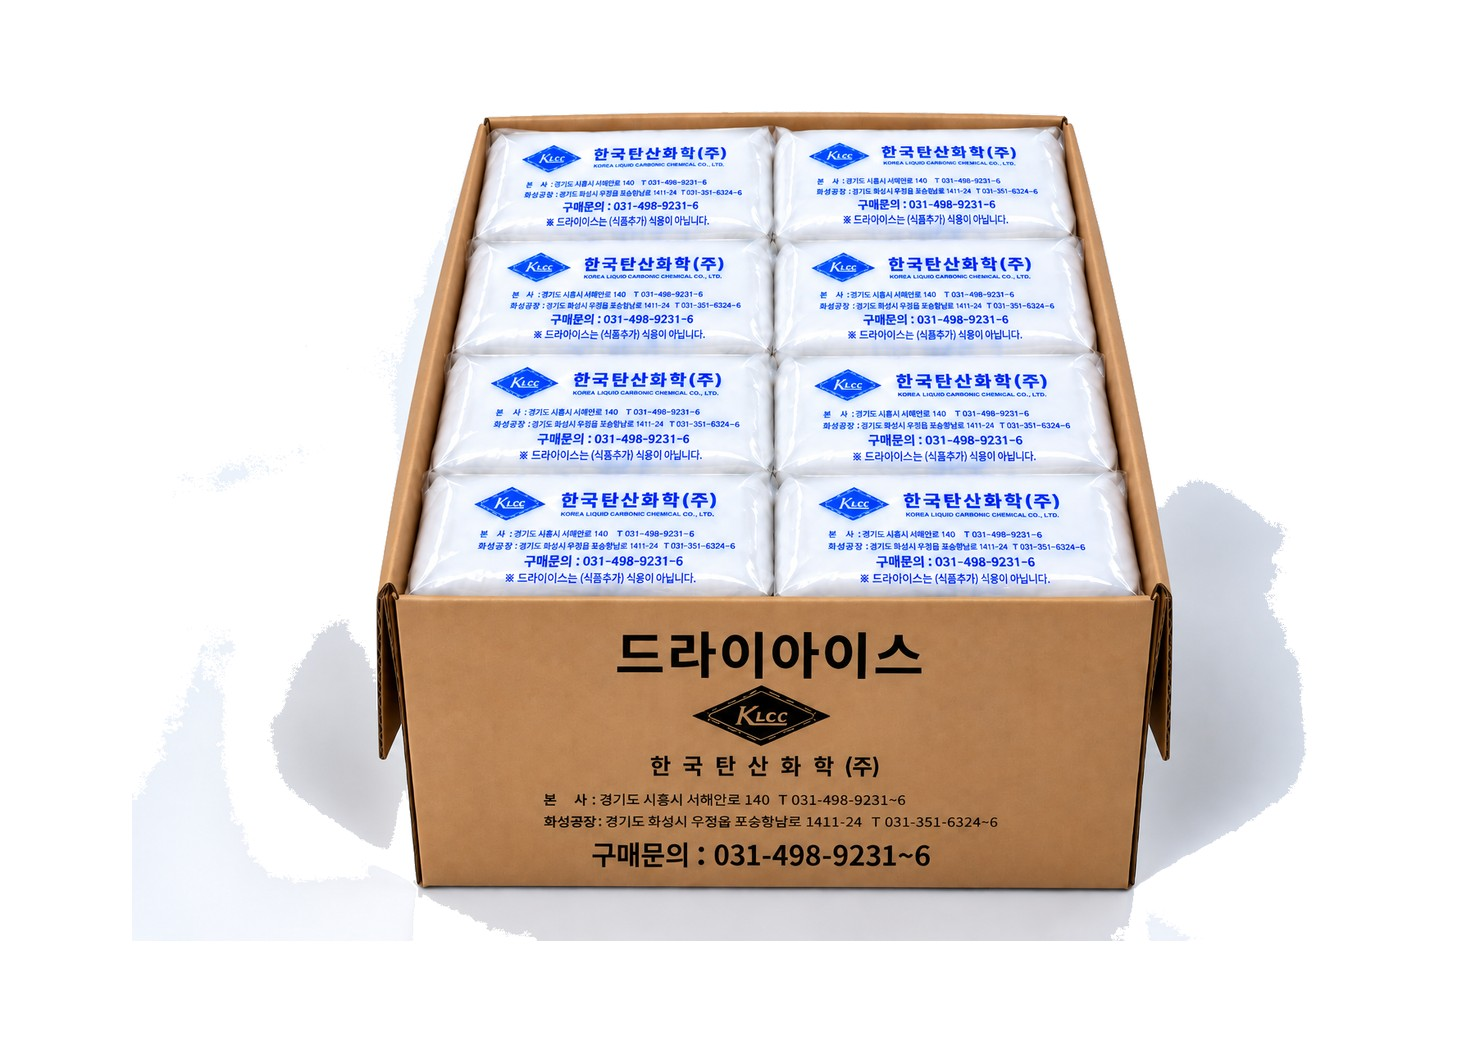
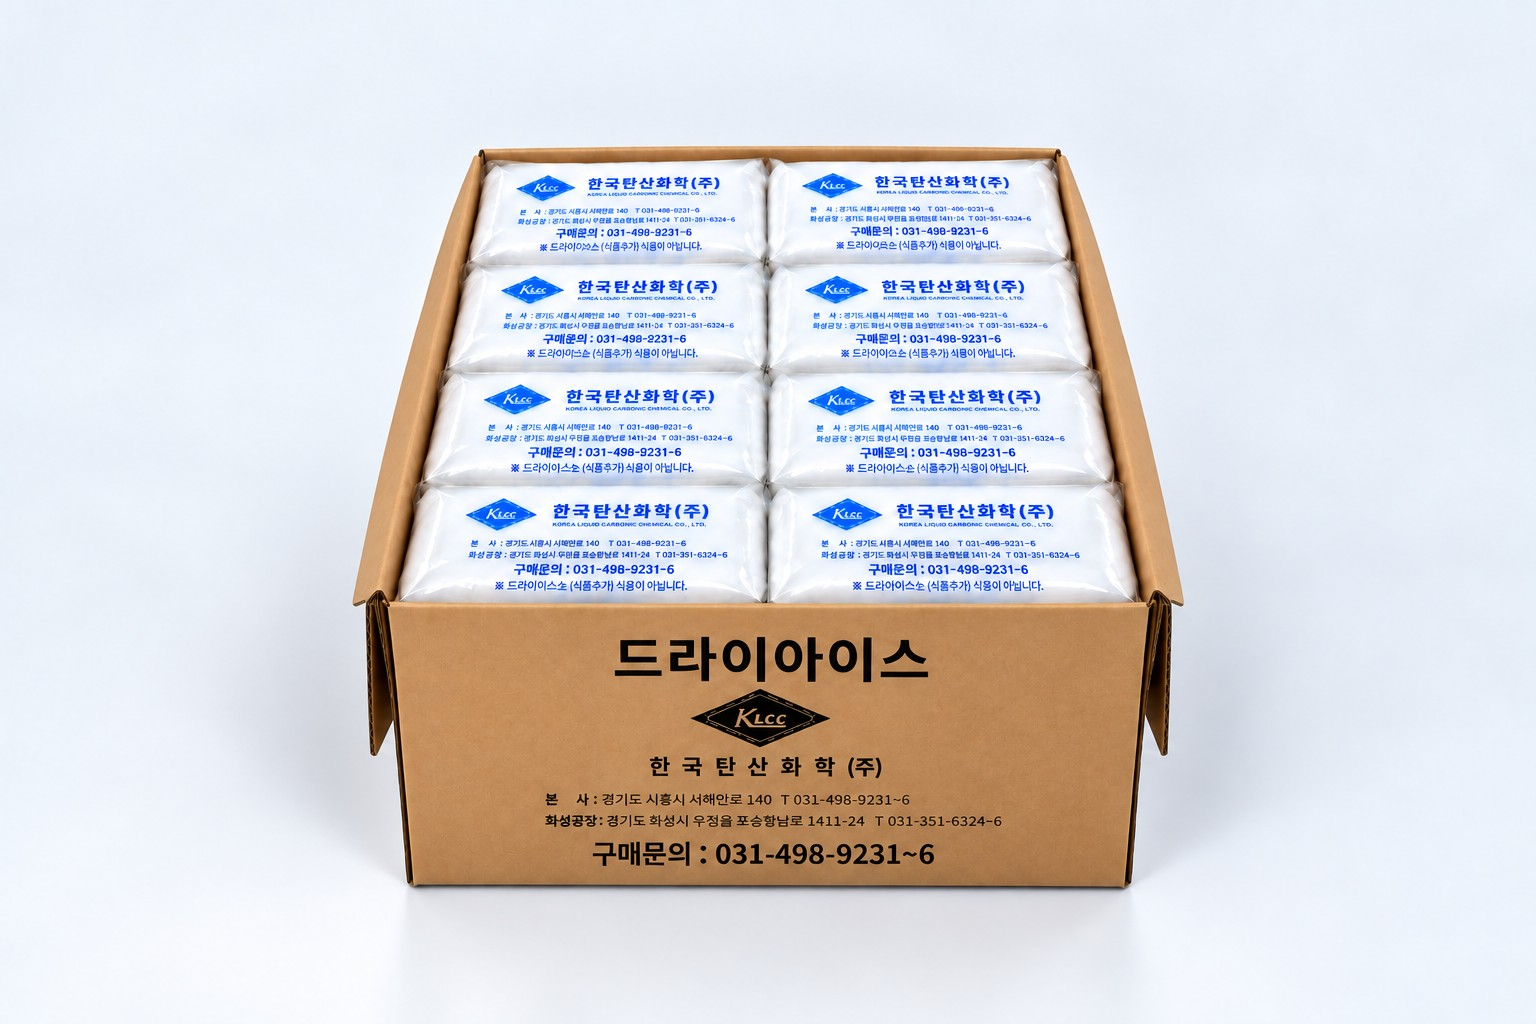
드라이아이스 48P BOX 포장 사진을 새 흰배경 오픈박스 이미지로 교체. ice-box-pack ?v=20260911h

diff --git a/products-ice.html b/products-ice.html
@@ -317,7 +317,7 @@
                   <h5 class="pkgspec__infotitle">포장 상세정보</h5>
                 </div>
                 <div class="pkgspec">
-                  <div class="pkgspec__photo"><img src="assets/images/site/ice-box-pack.jpg?v=20260911g" alt="한국탄산화학㈜ 48P 드라이아이스 박스 포장" loading="lazy"></div>
+                  <div class="pkgspec__photo"><img src="assets/images/site/ice-box-pack.jpg?v=20260911h" alt="한국탄산화학㈜ 48P 드라이아이스 박스 포장" loading="lazy"></div>
                   <div class="pkgspec__info">
                     <div class="pkgcard">
                     <ul class="pkgdetail">
